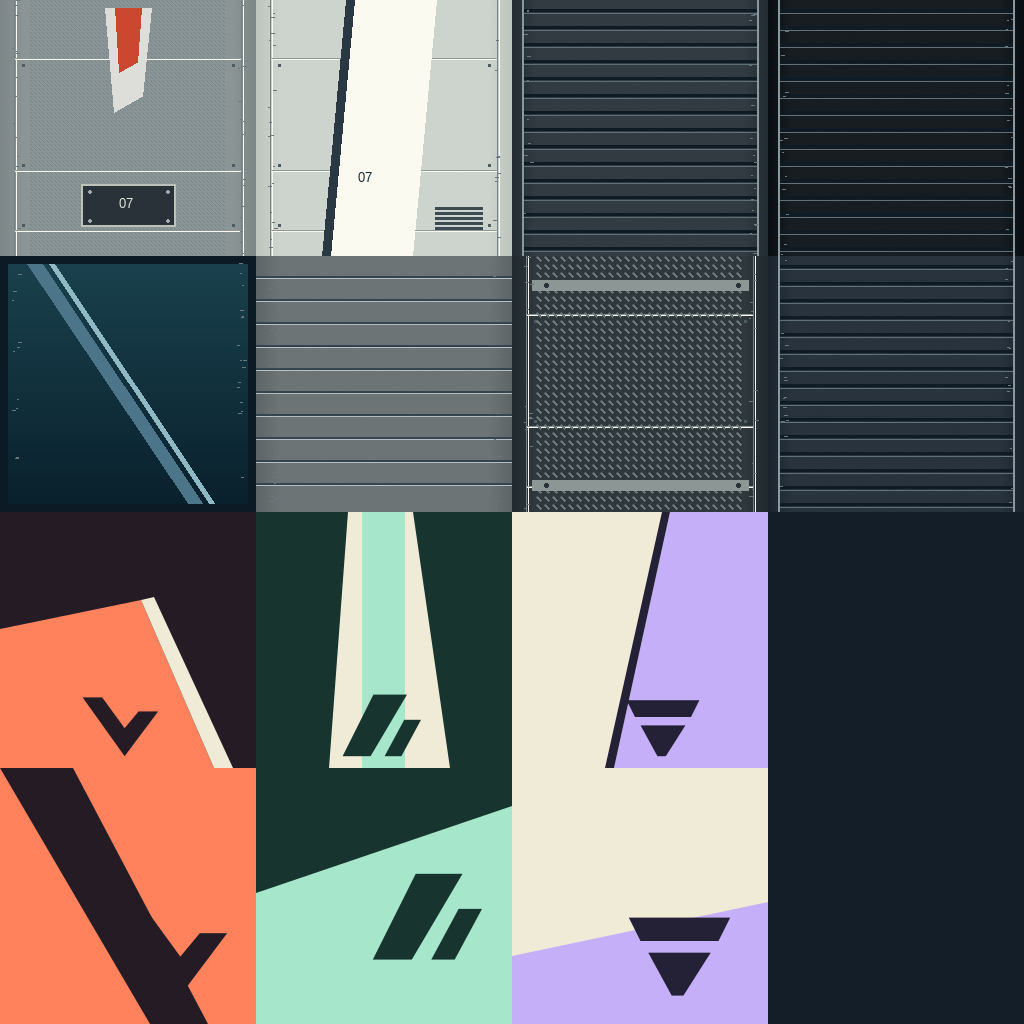
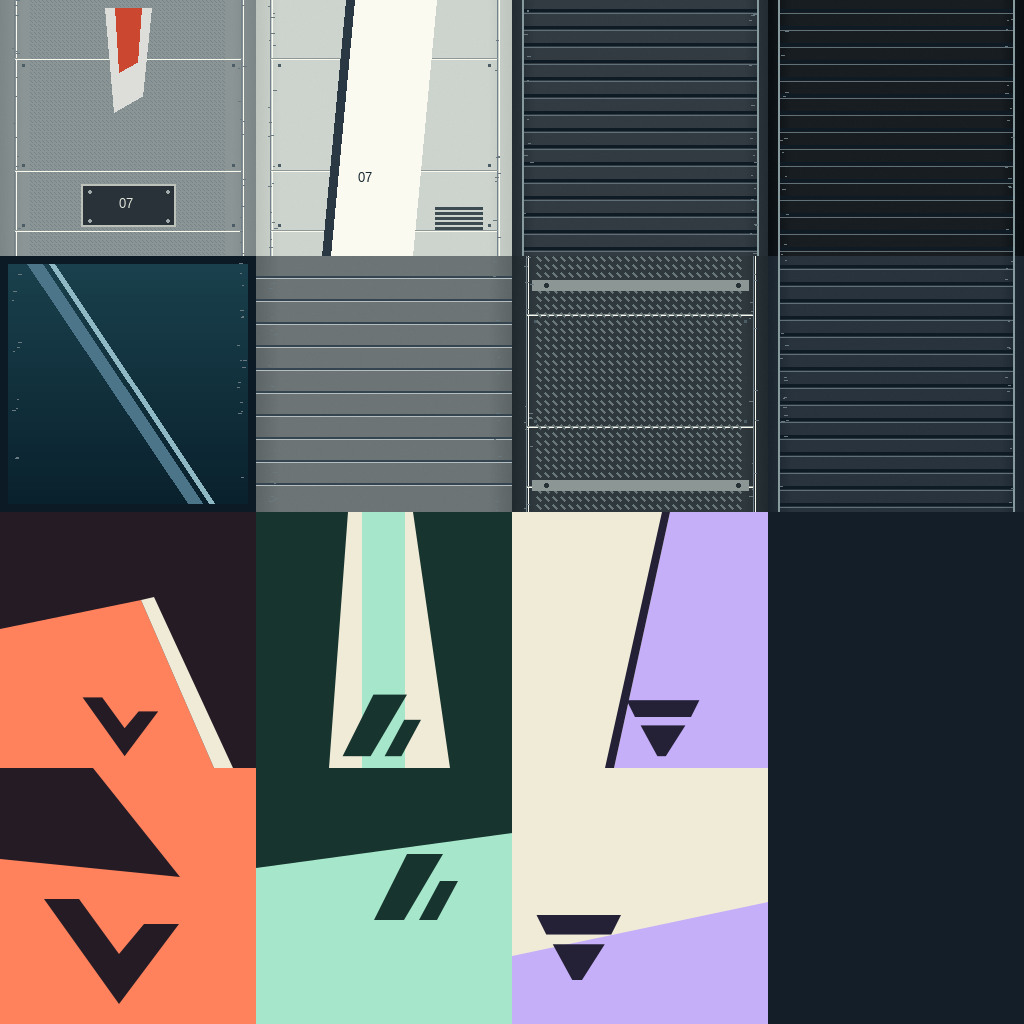
Keep every team mark inside its foil print area

diff --git a/src/craft.ts b/src/craft.ts
@@ -411,7 +411,11 @@ export function buildHull(variant: number): Hull {
       variant === 2 ? 0.05 : 0.015,
       side === teamSide
         ? ([x, , z]) => [
-            THREE.MathUtils.clamp((Math.abs(x) - 0.38) / 2.2, 0, 1),
+            THREE.MathUtils.clamp(
+              side === 1 ? (2.58 - x) / 2.2 : (-x - 0.38) / 2.2,
+              0,
+              1,
+            ),
             THREE.MathUtils.clamp((1.4 - z) / 3.8, 0, 1),
           ]
         : undefined,

diff --git a/src/league-team.css b/src/league-team.css
@@ -6,7 +6,10 @@
 }
 
 #crafts .choice > .team-emblem {
-  color: var(--team-color);
+  box-sizing: content-box;
+  padding: 0.2em;
+  background: var(--team-color);
+  color: var(--team-ink);
 }
 
 .team-plate {
